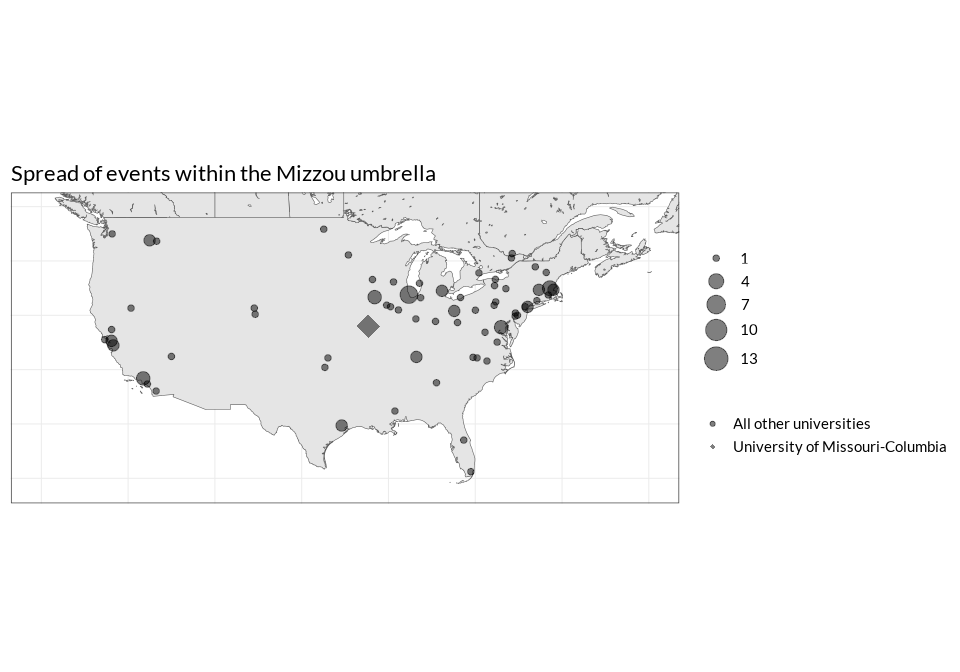
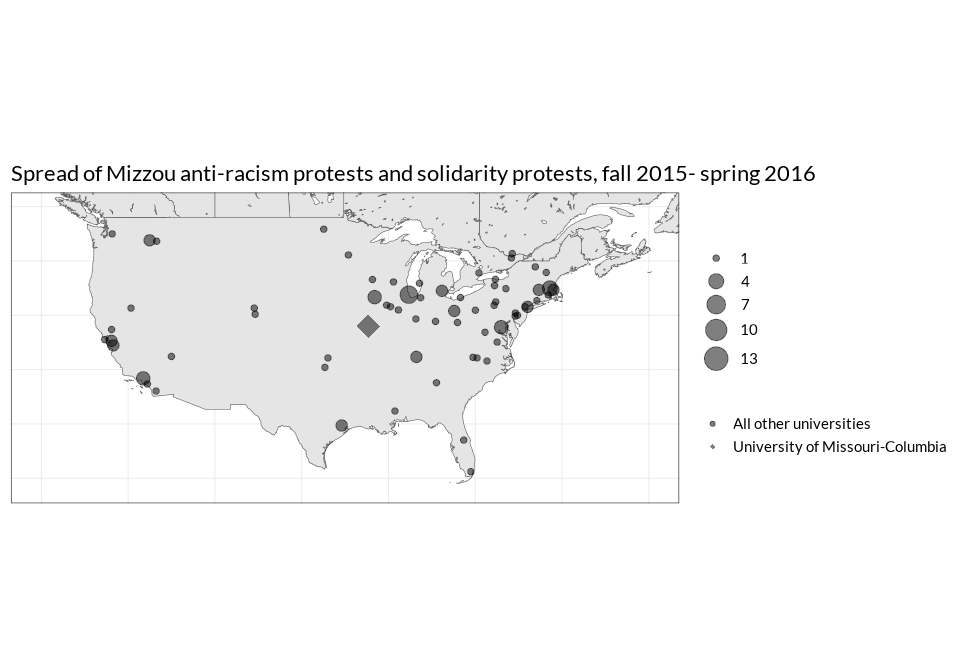
Article counts for mizzou

Changed region(s): [[0.0938, 0.25, 0.8438, 0.2812]]

diff --git a/docs/exploratory_plots.md b/docs/exploratory_plots.md
@@ -16,6 +16,8 @@ Exploratory Plots
 - [Maps and related things](#maps-and-related-things)
 - [Investigating specific movements](#investigating-specific-movements)
   - [2015 Mizzou protests](#2015-mizzou-protests)
+    - [Newspaper coverage for Mizzou
+      umbrella](#newspaper-coverage-for-mizzou-umbrella)
   - [2012 Quebec protest wave](#2012-quebec-protest-wave)
     - [Quebec events frequency stratified by police
       fields](#quebec-events-frequency-stratified-by-police-fields)
@@ -36,7 +38,7 @@ Exploratory Plots
 
 | Statistic                                   |   Value |
 |:--------------------------------------------|--------:|
-| Total imported events                       | 6100.00 |
+| Total imported events                       | 6099.00 |
 | Total events after cleaning                 | 6100.00 |
 | Unique locations                            |  540.00 |
 | US counties                                 |  313.00 |
@@ -54,7 +56,7 @@ Exploratory Plots
 | mean of issue counts                        |    2.12 |
 | \# of events with just one issue            | 2048.00 |
 
-The initial import of the MPEDS db found 6100 unique canonical events,
+The initial import of the MPEDS db found 6099 unique canonical events,
 and after all cleaning steps we still have 6100 canonical events.
 
 However, there’s still an issue regarding duplicate matches in IPEDS we
@@ -730,6 +732,23 @@ being both campaign events and counterprotest events, or campaign events
 and solidarity events.
 
 ![](exploratory_plots_files/figure-gfm/mizzou_map-1.png)<!-- -->![](exploratory_plots_files/figure-gfm/mizzou_map-2.png)<!-- -->
+
+### Newspaper coverage for Mizzou umbrella
+
+| canonical_key                                         | Article Mentions | Newspaper Mentions |
+|:------------------------------------------------------|-----------------:|-------------------:|
+| 20151102_Columbia_HungerStrike_UniversityGovernance   |              107 |                 79 |
+| 20151010_Columbia_Blockade_UniversityGovernance       |               35 |                 27 |
+| Umbrella_Mizzou_Anti-Racism_2015_Oct-Nov              |               19 |                 17 |
+| 20151109_Columbia_Rally_CampusClimate                 |               14 |                 13 |
+| 20151102_Columbia_Occupation_UniversityGovernance     |               11 |                  7 |
+| 20151110_Columbia_FacultyWalkout_UniversityGovernance |                4 |                  4 |
+| 20151001_Columbia_March_AntiRacism                    |                3 |                  2 |
+| 20151021_Columbia_OtherForm_UniversityGovernance      |                3 |                  3 |
+| 20151109_Columbia_OtherForm_FreeSpeech                |                2 |                  2 |
+| 20151006_Columbia_Sit-in_AntiRacism                   |                1 |                  1 |
+| 20151107_Columbia_Boycott_UniversityGovernance        |                1 |                  1 |
+| 20151107_Columbia_Demonstration_CampusClimate         |                1 |                  1 |
 
 ## 2012 Quebec protest wave
 
